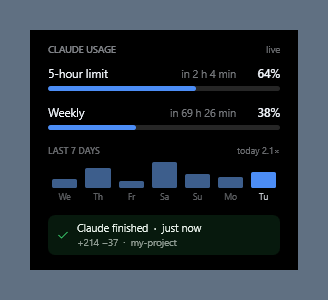
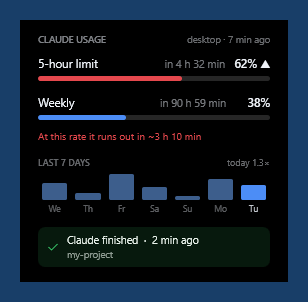
docs: explain when the number updates, refresh the card screenshot
Adds a "When does the number update?" section to both READMEs: the two
sources side by side (terminal status line vs. the desktop app's 15-minute
samples, 5-minute for half an hour after a tray right-click, paused while
idle), the newest-measurement-wins rule, and a legend for every label the
widget can show -- live, "desktop . 7 min ago", the floor arrow, when a
countdown appears, and what grey bars mean.

The card screenshot now shows the current build: desktop source with its
age, the arrow after a finished turn, the burn-rate line and the event box.

diff --git a/README.md b/README.md
@@ -57,6 +57,33 @@ The file has no `resets_at`, so when the desktop sample wins the countdown is
 kept only if the status line's window is still open (reset in the future and
 percentage not lower); otherwise it is left blank rather than guessed.
 
+## When does the number update?
+
+Two sources, one rule: **the more recently measured one wins.** Both are
+snapshots of the same API, so the source never changes the number — only how
+fresh it is.
+
+| Source | Written when | Gives |
+|---|---|---|
+| **Terminal** — Claude Code status line → `durum.json` | On every Claude reply, plus every 30 s — only in an interactive terminal session | Percentages + reset times, instantly |
+| **Desktop app** — its own `plan-usage-history.json` | Every **15 min** while the app is open; every **5 min** for 30 min after you right-click the Claude tray icon; paused while you are idle 10+ min | Percentages only |
+
+The widget polls both files once a second. What the labels mean:
+
+| You see | It means |
+|---|---|
+| `live` | Data from the terminal, event-driven |
+| `desktop · 7 min ago` | Data from the desktop app's last sample, with its real age |
+| `38% ▲` | Claude finished a turn ≥ 90 s after that measurement (hooks fire in the desktop app too). The real value is higher; the widget will not guess by how much |
+| countdown | Shown only when the reset time is *known* (came from the terminal and that window is still open). The desktop file has none — left blank, not invented |
+| grey bars + amber age | Both sources are silent (terminal > 5 min, desktop > 20 min). The number is correct but historical |
+
+Working in the desktop app with no terminal: numbers refresh every 15 minutes,
+with `▲` filling the gaps. Want it faster for a while? Right-click the Claude
+tray icon once — 5-minute samples for the next 30 minutes. The widget itself
+never touches the network or your credentials; it reads what two apps already
+write to disk.
+
 ## Features
 
 - **Works with the desktop app** — updates every 15 minutes from the app's own

diff --git a/README.tr.md b/README.tr.md
@@ -84,6 +84,32 @@ yeni tetik gelirse önceki çalışma iptal edilir.
 > örnekleme 60 sn'de bir yazıyor — yenileme de 60 sn olsaydı zamanlama
 > kayması yüzünden örnekler atlanabilirdi.
 
+## Veri ne zaman güncellenir?
+
+İki kaynak, tek kural: **ölçüm zamanı daha yeni olan kazanır.** İkisi de aynı
+API'nin fotoğrafı; kaynak sayıyı değiştirmez, yalnızca tazeliğini.
+
+| Kaynak | Ne zaman yazılır | Ne verir |
+|---|---|---|
+| **Terminal** — Claude Code statusLine → `durum.json` | Her Claude yanıtında + 30 sn'de bir — yalnızca etkileşimli terminal oturumunda | Yüzde + sıfırlanma saati; anında |
+| **Masaüstü** — uygulamanın kendi `plan-usage-history.json`'ı | Uygulama açıkken **15 dk'da bir**; Claude tepsi simgesine sağ tıkladıktan sonra 30 dk boyunca **5 dk'da bir**; 10 dk boştaysanız durur | Yalnızca yüzde |
+
+Widget iki dosyaya saniyede bir bakar. Etiketlerin anlamı:
+
+| Görünen | Anlamı |
+|---|---|
+| `canlı` | Veri terminalden, olay bazlı |
+| `masaüstü · 7 dk önce` | Veri masaüstü uygulamasının son örneğinden, gerçek yaşıyla |
+| `38% ▲` | O ölçümden ≥ 90 sn sonra Claude bir tur bitirdi (hook'lar masaüstünde de ateşleniyor). Gerçek değer daha yüksek; widget ne kadar olduğunu uydurmaz |
+| geri sayım | Yalnızca sıfırlanma saati *bilinen* pencerede (terminalden geldi ve pencere hâlâ açık). Masaüstü dosyasında bu bilgi yok — boş kalır, uydurulmaz |
+| gri bar + amber yaş | İki kaynak da sustu (terminal > 5 dk, masaüstü > 20 dk). Sayı doğru ama tarihî |
+
+Terminal açmadan masaüstünde çalışıyorsanız: sayı 15 dk'da bir yenilenir,
+aradaki boşluğu `▲` doldurur. Bir süre daha sık istiyorsanız Claude tepsi
+simgesine bir kez sağ tıklayın — 30 dakika boyunca 5 dk'da bir gelir. Widget
+kendisi hiçbir zaman ağa çıkmaz, kimlik bilgisi okumaz; iki uygulamanın zaten
+diske yazdığını okur.
+
 ## Dosyalar
 
 | Dosya | Görevi |
